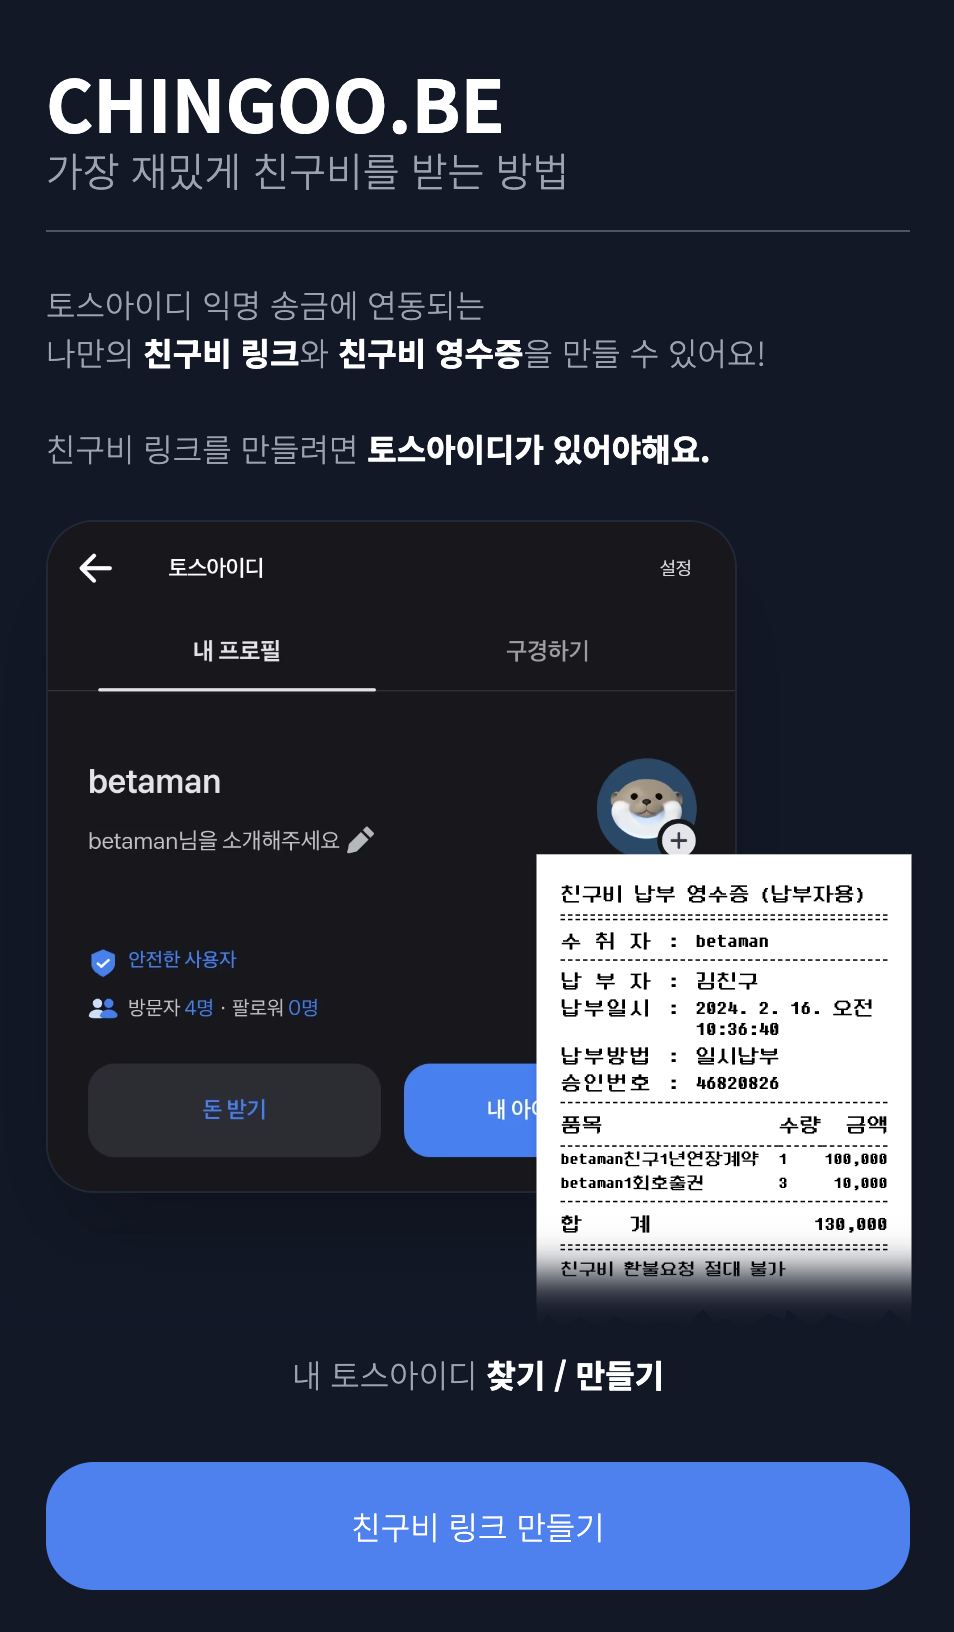
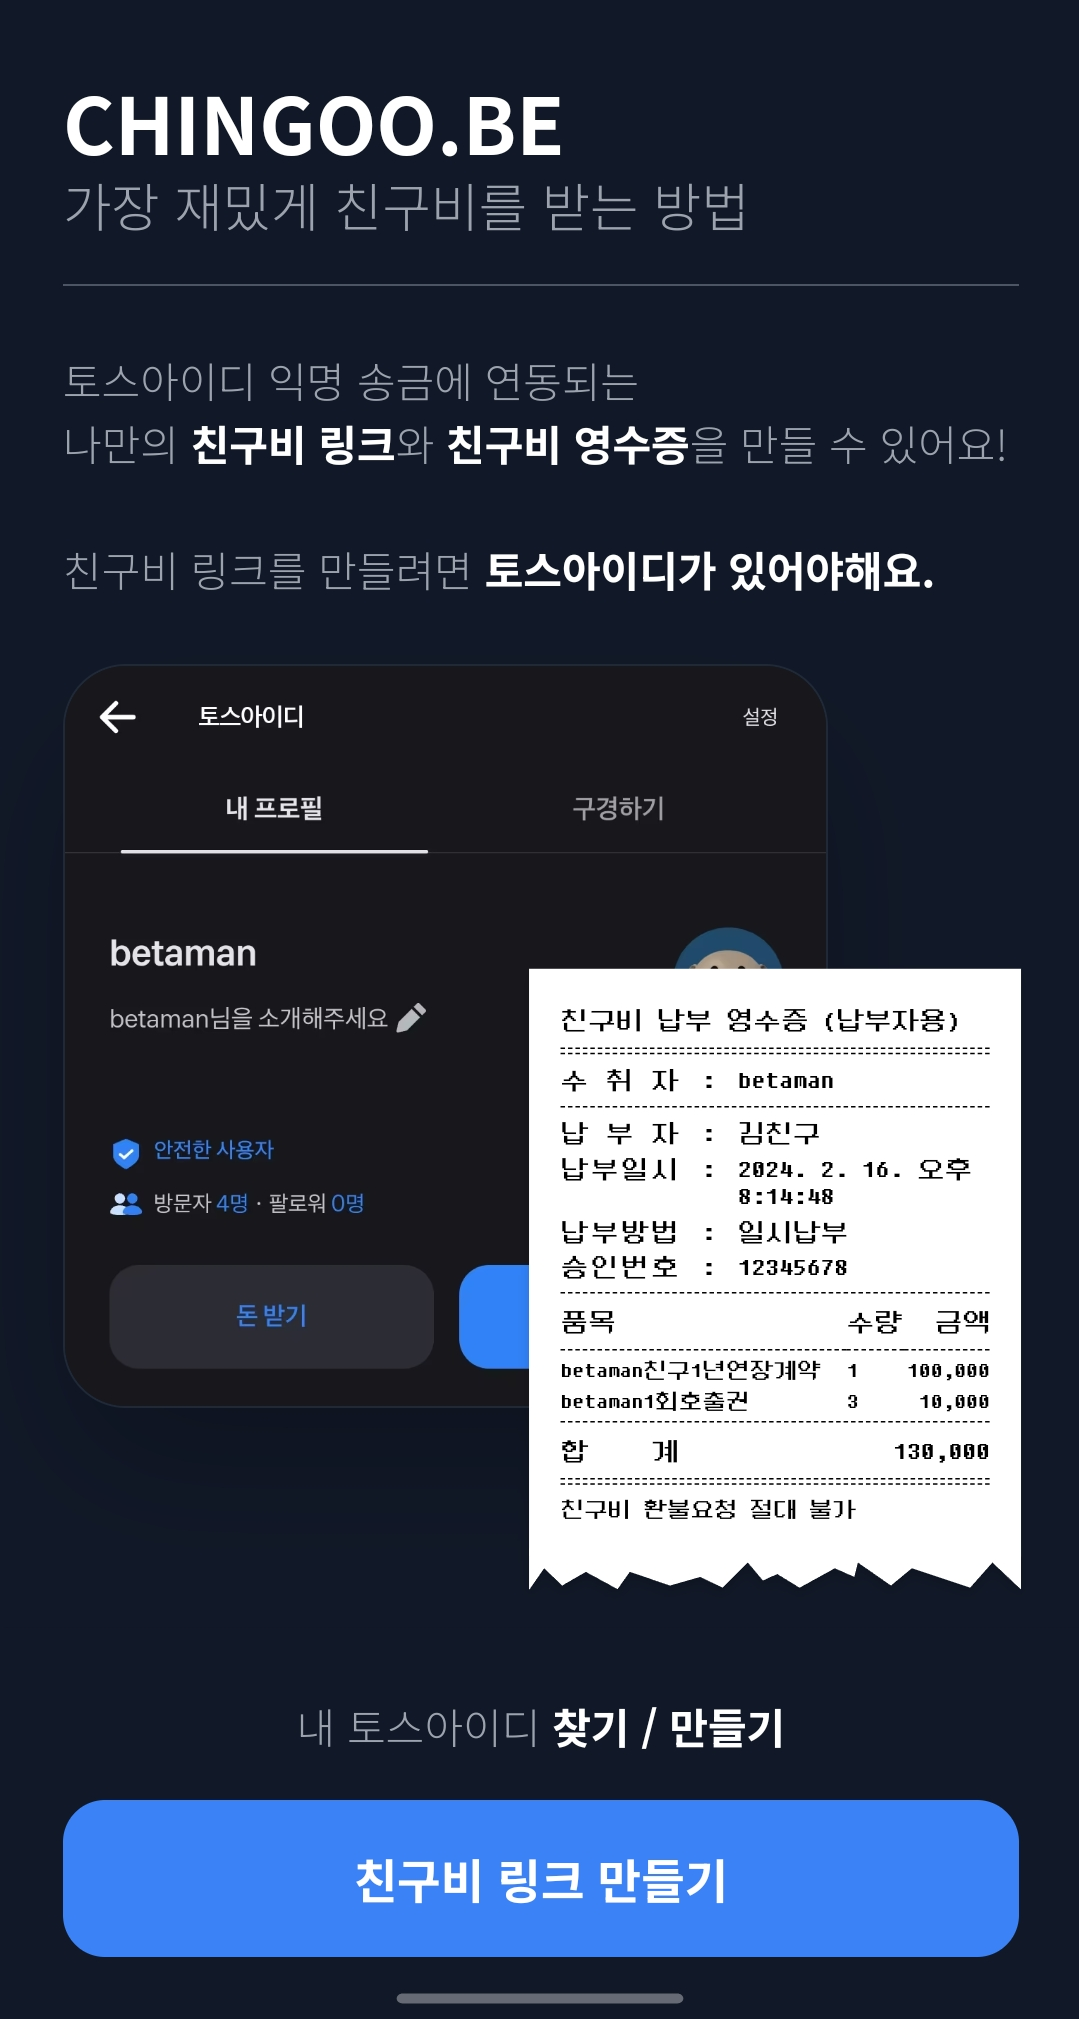
docs: edit README.md

diff --git a/README.md b/README.md
@@ -1,14 +1,18 @@
-# CHINGOO.BE
+# [CHINGOO.BE](https://chingoo.be)
 
-https://chingoo.be
-가장 재밌게 친구비를 받는 방법
+<a href="https://chingoo.be/receipt/058cc73a-da22-43b0-93b4-3c5ffc62c747" target="_blank">
+  <img src="./docs/assets/donation-button.png" width="300px" />
+</a>
 
-토스아이디 익명 송금과 연동되는 나만의 친구비 링크와 친구비 영수증을 만들 수 있습니다!
+## 가장 재밌게 친구비를 받는 방법
+
+토스아이디 익명 송금에 연동되는 나만의 **친구비 링크**와 **친구비 영수증**을 만들 수 있어요!
 
 친구비 링크를 만드려면 토스아이디가 있어야해요.
 
 <p width="100%" align="center">
   <img src="./docs/assets/chingoo.be-1.png" width="300px" />
+  <img src="./docs/assets/chingoo.be-2.png" width="300px" />
 </p>
 
 # Tech stack
